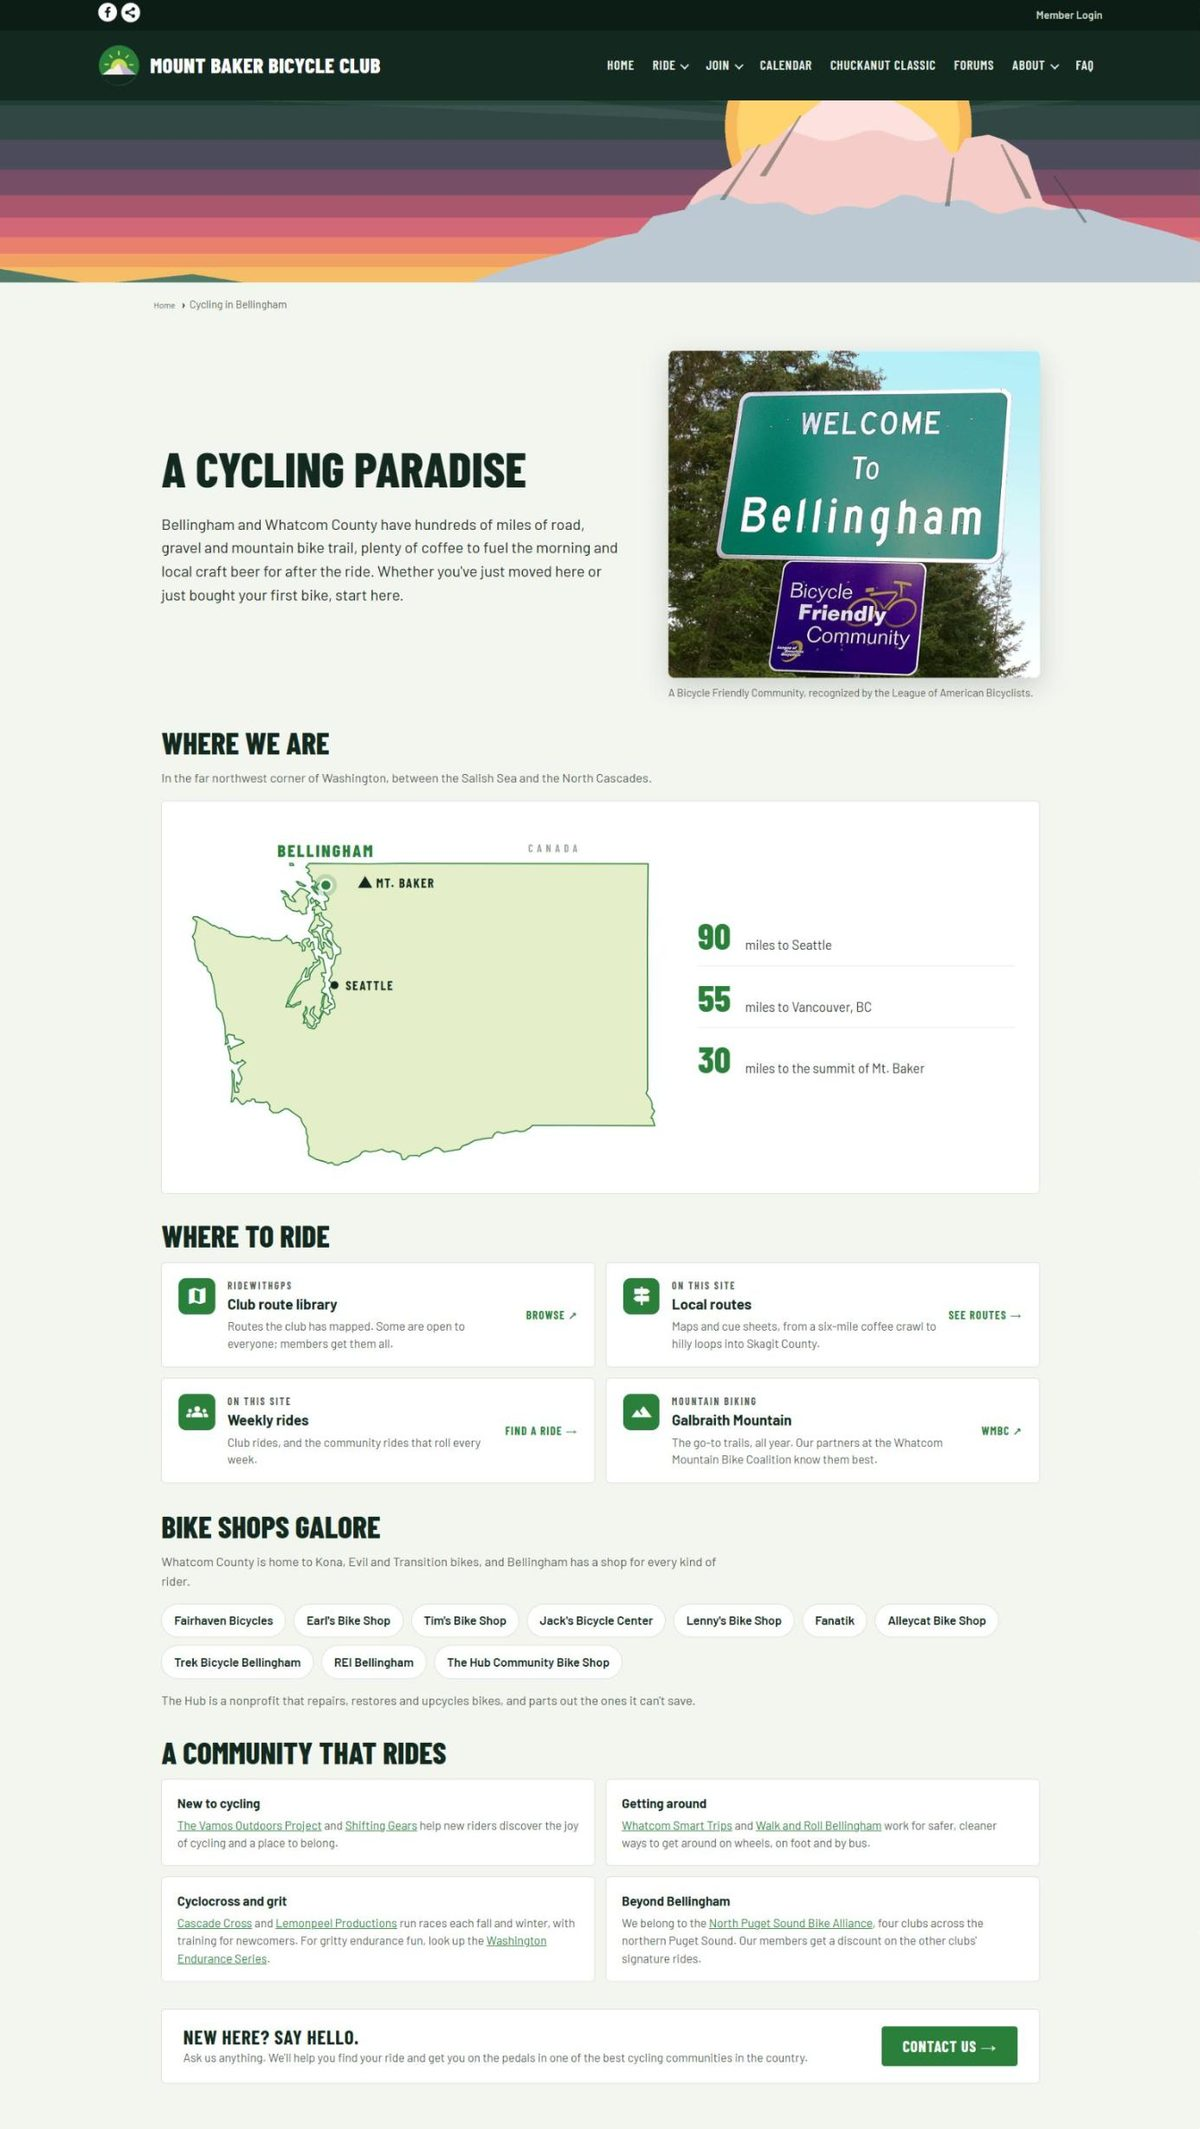
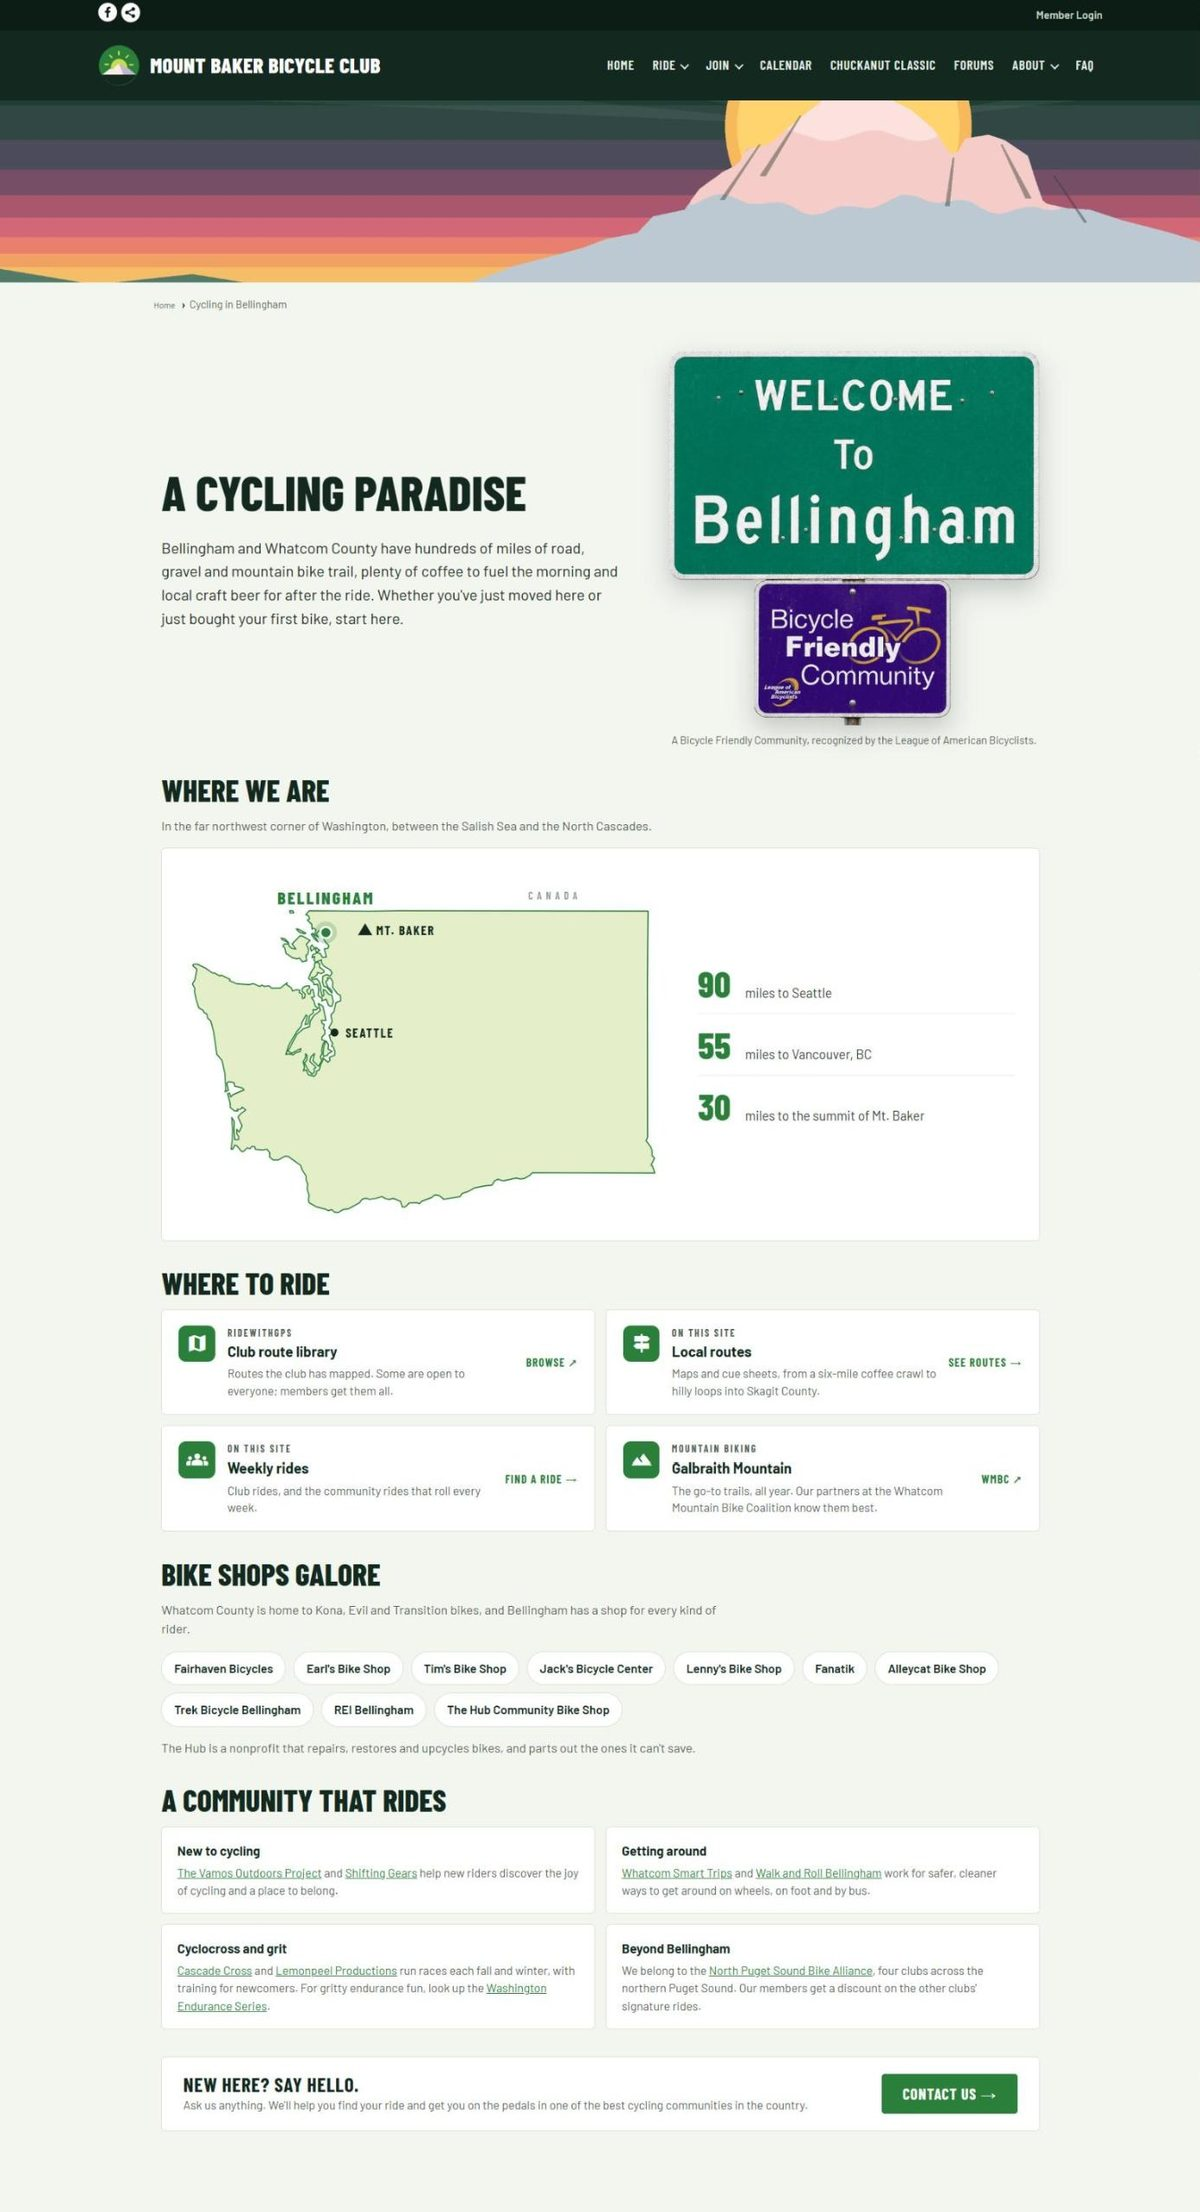
Show the cut-out welcome sign on Cycling in Bellingham
Also drop the section menu from the Weekly Rides alt text; the page no
longer has one.

diff --git a/index.html b/index.html
@@ -523,7 +523,7 @@
       </figure>
       <figure class="shot">
         <figcaption><span class="tag tag-new">Proposed</span>Weekly Rides page</figcaption>
-        <a class="frame" href="img/rides-after.jpg?v=6"><img src="img/rides-after.jpg?v=6" width="1200" height="2212" loading="lazy" alt="The proposed Weekly Rides page: a section menu on the left, three short notes for newcomers, then a card per club ride with Where, When, How far and Pace, a status badge, and a separate list of other weekly rides in Bellingham."></a>
+        <a class="frame" href="img/rides-after.jpg?v=6"><img src="img/rides-after.jpg?v=6" width="1200" height="2212" loading="lazy" alt="The proposed Weekly Rides page: three short notes for newcomers, then a card per club ride with Where, When, How far and Pace, a status badge, and a separate list of other weekly rides in Bellingham."></a>
       </figure>
     </div>
   </section>
@@ -553,7 +553,7 @@
       </figure>
       <figure class="shot">
         <figcaption><span class="tag tag-new">Proposed</span>Cycling in Bellingham</figcaption>
-        <a class="frame" href="img/bellingham-after.jpg?v=6"><img src="img/bellingham-after.jpg?v=6" width="1200" height="2129" loading="lazy" alt="The proposed Cycling in Bellingham page, headed A cycling paradise beside a photo of the Welcome to Bellingham and Bicycle Friendly Community signs, then a map of Washington marking Bellingham, Mt. Baker and Seattle with distances, cards for where to ride, the local bike shops as buttons, four cards on the cycling community, and a New here? Say hello box with a Contact us button."></a>
+        <a class="frame" href="img/bellingham-after.jpg?v=7"><img src="img/bellingham-after.jpg?v=7" width="1200" height="2212" loading="lazy" alt="The proposed Cycling in Bellingham page, headed A cycling paradise beside a photo of the Welcome to Bellingham and Bicycle Friendly Community signs, then a map of Washington marking Bellingham, Mt. Baker and Seattle with distances, cards for where to ride, the local bike shops as buttons, four cards on the cycling community, and a New here? Say hello box with a Contact us button."></a>
       </figure>
     </div>
   </section>
